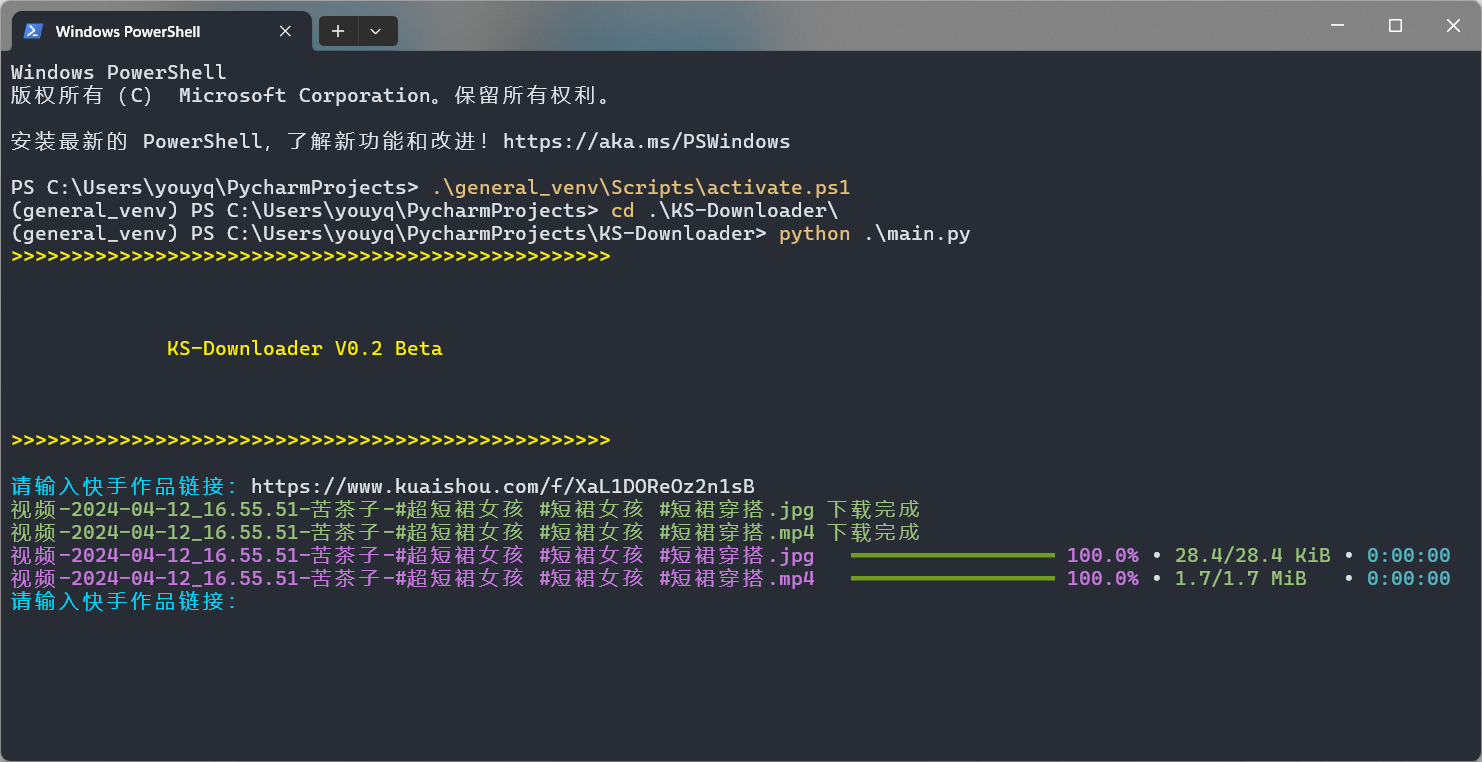
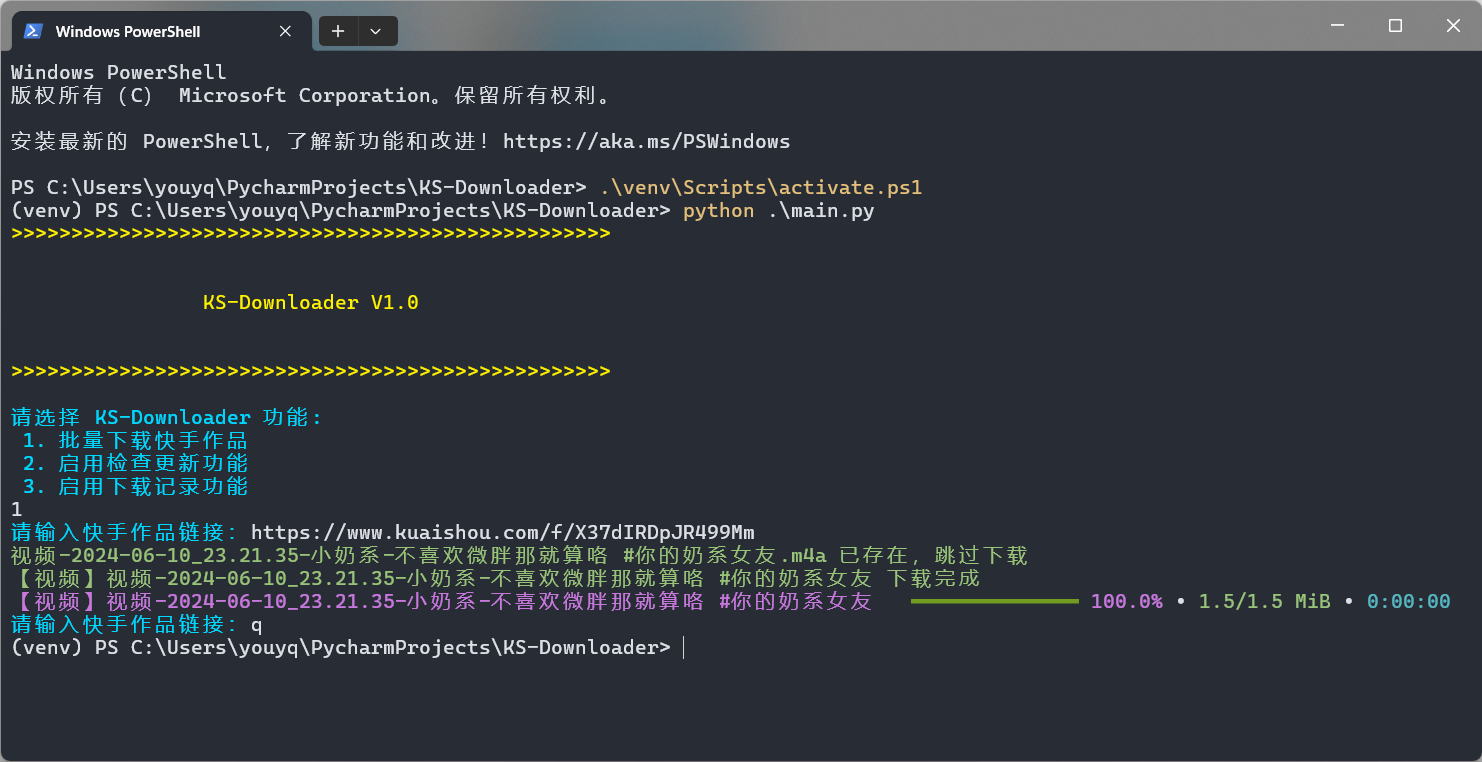
发布 1.0 版本

diff --git a/source/downloader/downloader.py b/source/downloader/downloader.py
@@ -18,6 +18,7 @@ from source.tools import (
 )
 from source.tools import capture_error_request
 from source.tools import retry_request
+from source.tools import truncation
 
 if TYPE_CHECKING:
     from source.manager import Manager
@@ -31,6 +32,7 @@ class Downloader:
         "image/webp": "webp",
         "video/mp4": "mp4",
         "video/quicktime": "mov",
+        "audio/mp4": "m4a"
     }
 
     def __init__(self, manager: "Manager", database: "Database"):
@@ -40,6 +42,7 @@ class Downloader:
         self.headers = manager.app_download_headers
         self.cleaner = manager.cleaner
         self.cover = manager.cover
+        self.music = manager.music
         self.console = manager.console
         self.proxy = manager.proxy
         self.retry = manager.max_retry
@@ -92,7 +95,21 @@ class Downloader:
                         await self.__handle_atlas(tasks, name, item, progress, )
                     case _:
                         self.console.error("未知的作品类型")
+                await self.__handle_music(tasks, name, item, progress, )
             await gather(*tasks)
+
+    async def __handle_music(self, tasks: list, name: str, data: dict, progress: Progress, ):
+        if not (m := data.get("audioUrls")):
+            return
+        file = self.__generate_path(name)
+        if not self.__file_exists(file, "m4a"):
+            tasks.append(self.__download_file(
+                m.split()[0],
+                file,
+                progress,
+                data["detailID"],
+                "音乐",
+            ))
 
     async def __handle_video(self, tasks: list, name: str, data: dict, progress: Progress, ):
         file = self.__generate_path(name)
@@ -139,20 +156,20 @@ class Downloader:
     async def __download_file(self, url: str, path: "Path", progress: Progress, id_: str, tip: str = ""):
         async with self.semaphore:
             if not url:
-                self.console.warning(f"{path.name} {tip}下载链接为空")
+                self.console.warning(f"【{tip}】{truncation(path.name)} 下载链接为空")
                 return True
             try:
                 async with self.session.get(url, headers=self.headers, proxy=self.proxy, ) as response:
                     if response.status != 200:
-                        self.console.error(f"{path.name} 响应码异常：{
+                        self.console.error(f"【{tip}】{truncation(path.name)} 响应码异常：{
                         response.status}")
                         return False
-                    temp = self.temp.joinpath(path.name)
                     suffix = self.__extract_type(
                         response.headers.get("Content-Type"))
+                    temp = self.temp.joinpath(f"{path.name}.{suffix}")
                     path = path.with_name(f"{path.name}.{suffix}")
                     task_id = progress.add_task(
-                        path.name, total=int(
+                        f"【{tip}】{truncation(path.name)}", total=int(
                             response.headers.get(
                                 "Content-Length", "0")) or None)
                     with temp.open("wb") as f:
@@ -160,11 +177,12 @@ class Downloader:
                             f.write(chunk)
                             progress.update(task_id, advance=len(chunk))
             except StopAsyncIteration:
-                self.console.error(f"网络异常，{path.name} 下载中断！")
+                self.console.error(
+                    f"【{tip}】{truncation(path.name)} 网络异常，下载中断！")
                 await self.database.delete_download_data(id_)
                 return False
             self.move(temp, path)
-            self.console.info(f"{path.name} 下载完成")
+            self.console.info(f"【{tip}】{truncation(path.name)} 下载完成")
             await self.database.write_download_data(id_)
             return True
 

diff --git a/source/app/app.py b/source/app/app.py
@@ -7,6 +7,7 @@ from source.custom import (
     VERSION_MAJOR,
     VERSION_MINOR,
     VERSION_BETA,
+    DISCLAIMER_TEXT,
 )
 from source.downloader import Downloader
 from source.extract import APIExtractor
@@ -80,7 +81,8 @@ class KS:
         self.__welcome()
         await self.__update_version()
         # await self.async_init()
-        await self.__main_menu()
+        if await self.disclaimer():
+            await self.__main_menu()
 
     async def __detail_enquire(self):
         while self.running:
@@ -121,7 +123,7 @@ class KS:
                 f"{VERSION_MAJOR}.{VERSION_MINOR}", target, VERSION_BETA)
             self.console.print(
                 self.version.STATUS_CODE[state],
-                INFO if state == 1 else WARNING)
+                style=INFO if state == 1 else WARNING)
         else:
             self.console.print("检测新版本失败", style=ERROR)
         self.console.print()
@@ -156,12 +158,14 @@ class KS:
             case True:
                 items = [await self.detail_request.run(i) for i in urls]
                 data = self.api_extractor.run([i for i in items if i])
+                data = self.__check_extract_data(data)
                 await self.__save_data(data, "Download")
             case False:
                 items = await self.detail_page.run(urls)
                 data = [
                     self.detail_extractor.run(
                         h, i, ) for i, h in items if h]
+                data = self.__check_extract_data(data)
             case _:
                 return
         await self.__download_file(data, app=app, )
@@ -178,8 +182,27 @@ class KS:
         if data:
             await self.download.run(data, type_, app, )
 
+    def __check_extract_data(self, data: list) -> list:
+        if data := [i for i in data if i]:
+            return data
+        self.console.error("获取数据失败")
+        return []
+
     async def user(self):
         pass
+
+    async def disclaimer(self):
+        if self.config["Disclaimer"]:
+            return True
+        self.console.print(
+            "\n".join(DISCLAIMER_TEXT),
+            style=MASTER)
+        if self.console.input(
+                "是否已仔细阅读上述免责声明(YES/NO): ").upper() != "YES":
+            return False
+        await self.database.update_config_data("Disclaimer", 1)
+        self.console.print()
+        return True
 
     async def close(self):
         await self.manager.close()

diff --git a/source/config/parameter.py b/source/config/parameter.py
@@ -29,7 +29,6 @@ class Parameter:
                  data_record: bool = False,
                  chunk=1024 * 1024,
                  folder_mode: bool = False,
-                 server=False,
                  max_workers=4,
                  ):
         self.root = PROJECT_ROOT
@@ -42,6 +41,7 @@ class Parameter:
         self.work_path = self.__check_work_path(work_path)
         # self.cookie = self.__check_cookie(cookie)
         self.cover = self.__check_cover(cover)
+        self.music = self.check_bool(music, False)
         self.download_record = self.check_bool(download_record, True)
         self.data_record = self.check_bool(data_record, False)
         self.chunk = self.__check_chunk(chunk)
@@ -60,6 +60,7 @@ class Parameter:
             "folder_name": self.folder_name,
             # "cookie": self.cookie,
             "cover": self.cover,
+            "music": self.music,
             "download_record": self.download_record,
             "data_record": self.data_record,
             "max_workers": self.max_workers,
@@ -80,8 +81,7 @@ class Parameter:
         return max_retry
 
     async def check_proxy(self) -> None:
-        if self.proxy:
-            self.proxy = await self.__check_proxy(self.proxy)
+        self.proxy = await self.__check_proxy(self.proxy) if self.proxy else None
 
     def __check_max_workers(self, max_workers: int) -> int:
         if isinstance(max_workers, int) and max_workers > 0:

diff --git a/source/extract/extractor.py b/source/extract/extractor.py
@@ -153,8 +153,10 @@ class APIExtractor:
         self.__extract_photo(item, data)
         match item["photoType"]:
             case "视频":
+                self.__extract_music(item, data, True)
                 self.__extract_mp4(item, data)
             case "图片":
+                self.__extract_music(item, data, False)
                 self.__extract_atlas(item, data)
             case _:
                 item["download"] = ""
@@ -191,6 +193,17 @@ class APIExtractor:
         item["userEid"] = self.safe_extract(photo, "userEid")
         item["detailID"] = self.__extract_id(
             self.safe_extract(photo, "share_info"))
+
+    def __extract_music(self, item: dict, data: SimpleNamespace, video=True, ) -> None:
+        if video:
+            music = self.safe_extract(data, "photo.soundTrack")
+        else:
+            music = self.safe_extract(data, "photo.music")
+        item["music_name"] = self.safe_extract(music, "name")
+        item["audioUrls"] = []
+        for i in self.safe_extract(music, "audioUrls", []):
+            item["audioUrls"].append(i.url)
+        item["audioUrls"] = " ".join(i for i in item["audioUrls"] if i)
 
     @staticmethod
     def __extract_id(share: str):

diff --git a/source/manager/manager.py b/source/manager/manager.py
@@ -28,6 +28,7 @@ class Manager:
                  folder_name: str,
                  # cookie: str,
                  cover: str,
+                 music: bool,
                  download_record: bool,
                  data_record: bool,
                  chunk: int,
@@ -52,6 +53,7 @@ class Manager:
         self.max_retry = max_retry
         self.proxy = proxy
         self.cover = cover
+        self.music = music
         self.download_record = download_record
         self.data_record = data_record
         self.folder_mode = folder_mode

diff --git a/source/record/manager.py b/source/record/manager.py
@@ -35,6 +35,8 @@ class RecordManager:
         ("download", "下载链接", "TEXT"),
         ("coverUrls", "封面链接", "TEXT"),
         ("webpCoverUrls", "WEBP封面链接", "TEXT"),
+        ("music_name", "音乐标题", "TEXT"),
+        ("audioUrls", "音乐链接", "TEXT"),
         ("collectionCount", "收藏数量", "INTEGER"),
         ("commentCount", "评论数量", "INTEGER"),
         ("viewCount", "浏览数量", "INTEGER"),

diff --git a/source/tools/string.py b/source/tools/string.py
@@ -1,0 +1,18 @@
+def is_chinese_char(char):
+    """判断一个字符是否是中文字符"""
+    if "\u4e00" <= char <= "\u9fff":
+        return True
+    return False
+
+
+def truncation(string: str, length=64) -> str:
+    result = ""
+    for s in string:
+        result += s
+        if is_chinese_char(s):
+            length -= 2
+        else:
+            length -= 1
+        if length < 1:
+            break
+    return result

diff --git a/source/custom/internal.py b/source/custom/internal.py
@@ -1,9 +1,9 @@
 from pathlib import Path
 
 PROJECT_ROOT = Path(__file__).resolve().parent.parent.parent
-VERSION_MAJOR = 0
-VERSION_MINOR = 5
-VERSION_BETA = True
+VERSION_MAJOR = 1
+VERSION_MINOR = 0
+VERSION_BETA = False
 PROJECT_NAME = f"KS-Downloader V{VERSION_MAJOR}.{
 VERSION_MINOR}{" Beta" if VERSION_BETA else ""}"
 

diff --git a/source/tools/__init__.py b/source/tools/__init__.py
@@ -13,4 +13,6 @@ from .console import (
 from .namespace import Namespace
 from .retry import retry_request
 from .session import base_session
+from .string import is_chinese_char
+from .string import truncation
 from .version import Version

diff --git a/source/config/config.py b/source/config/config.py
@@ -25,7 +25,6 @@ class Config:
         "timeout": TIMEOUT,
         "chunk": 1024 * 1024,
         "folder_mode": False,
-        "server": False,
         # "cookie": "",
     }
 

diff --git a/README.md b/README.md
@@ -6,39 +6,48 @@
 <img alt="GitHub Repo stars" src="https://img.shields.io/github/stars/JoeanAmier/KS-Downloader?style=for-the-badge&color=ff4d4f">
 <img alt="GitHub code size in bytes" src="https://img.shields.io/github/languages/code-size/JoeanAmier/KS-Downloader?style=for-the-badge&color=13c2c2">
 <br>
-
-[//]: # (<img alt="GitHub release &#40;with filter&#41;" src="https://img.shields.io/github/v/release/JoeanAmier/KS-Downloader?style=for-the-badge&color=f759ab">)
+<img alt="GitHub release (with filter)" src="https://img.shields.io/github/v/release/JoeanAmier/KS-Downloader?style=for-the-badge&color=f759ab">
 <img src="https://img.shields.io/badge/Sourcery-enabled-884898?style=for-the-badge&color=1890ff" alt="">
-
-[//]: # (<img alt="GitHub all releases" src="https://img.shields.io/github/downloads/JoeanAmier/KS-Downloader/total?style=for-the-badge&color=52c41a">)
+<img alt="GitHub all releases" src="https://img.shields.io/github/downloads/JoeanAmier/KS-Downloader/total?style=for-the-badge&color=52c41a">
 <br>
 <p>🔥 <b>快手作品下载工具：</b>完全开源，基于 AIOHTTP 模块实现，下载快手无水印视频、图片文件！</p>
 </div>
 <hr>
 <h1>📑 项目功能</h1>
 <ul>
-<li>✅ 采集快手作品数据</li>
 <li>✅ 下载快手无水印作品文件</li>
 <li>✅ 下载快手作品封面图片</li>
+<li>✅ 下载快手作品音乐文件</li>
 <li>✅ 自动跳过已下载的作品文件</li>
 <li>✅ 作品文件完整性处理机制</li>
 <li>✅ 持久化储存作品信息至文件</li>
 <li>✅ 记录已下载作品 ID</li>
 <li>✅ 作品文件储存至单独文件夹</li>
-<li>☑ 下载快手作品音乐文件</li>
+<li>☑ 自定义作品文件名称格式</li>
 <li>☑ 后台监听剪贴板下载作品</li>
 <li>☑ 支持命令行下载作品文件</li>
 <li>☑ 支持 API 调用功能</li>
 </ul>
 <h1>📸 程序截图</h1>
 <img src="docs/项目运行截图.png" alt="">
+<h1>🥣 使用方法</h1>
+<h2>🖱 程序运行</h2>
+<p>Windows 10 及以上用户可前往 <a href="https://github.com/JoeanAmier/KS-Downloader/releases/latest">Releases</a> 下载程序压缩包，解压后打开程序文件夹，双击运行 <code>main.exe</code> 即可使用。</p>
+<p>若通过此方式使用程序，文件默认下载路径为：<code>.\_internal\Download</code>；配置文件路径为：<code>.\_internal\config.yaml</code></p>
+<h2>⌨ 源码运行</h2>
+<ol>
+<li>安装版本号不低于 <code>3.12</code> 的 Python 解释器</li>
+<li>运行 <code>pip install -i https://pypi.tuna.tsinghua.edu.cn/simple -r requirements.txt</code> 命令安装程序所需模块</li>
+<li>下载本项目最新的源码或 <a href="https://github.com/JoeanAmier/KS-Downloader/releases/latest">Releases</a> 发布的源码至本地</li>
+<li>运行 <code>main.py</code> 即可使用</li>
+</ol>
 <h1>🔗 支持链接</h1>
 <ul>
 <li><code>https://www.kuaishou.com/f/分享码</code></li>
 <li><code>https://v.kuaishou.com/分享码</code></li>
 <li><code>https://www.kuaishou.com/short-video/作品ID</code></li>
 <br/>
-<p><b>支持单次输入多个作品链接，链接之间使用空格分隔。</b></p>
+<p><b>推荐使用分享链接；支持单次输入多个作品链接，链接之间使用空格分隔。</b></p>
 </ul>
 <h1>🪟 关于终端</h1>
 <p>⭐ 推荐使用 <a href="https://learn.microsoft.com/zh-cn/windows/terminal/install">Windows 终端</a> （Windows 11 默认终端）运行程序以便获得最佳显示效果！</p>
@@ -95,6 +104,12 @@
 <td align="center">str</td>
 <td align="center">作品封面下载格式，支持：<code>JPEG</code>、<code>WEBP</code>；设置为空字符串代表不下载</td>
 <td align="center">空字符串</td>
+</tr>
+<tr>
+<td align="center">music</td>
+<td align="center">bool</td>
+<td align="center">是否下载作品音乐</td>
+<td align="center">false</td>
 </tr>
 <tr>
 <td align="center">max_retry</td>
